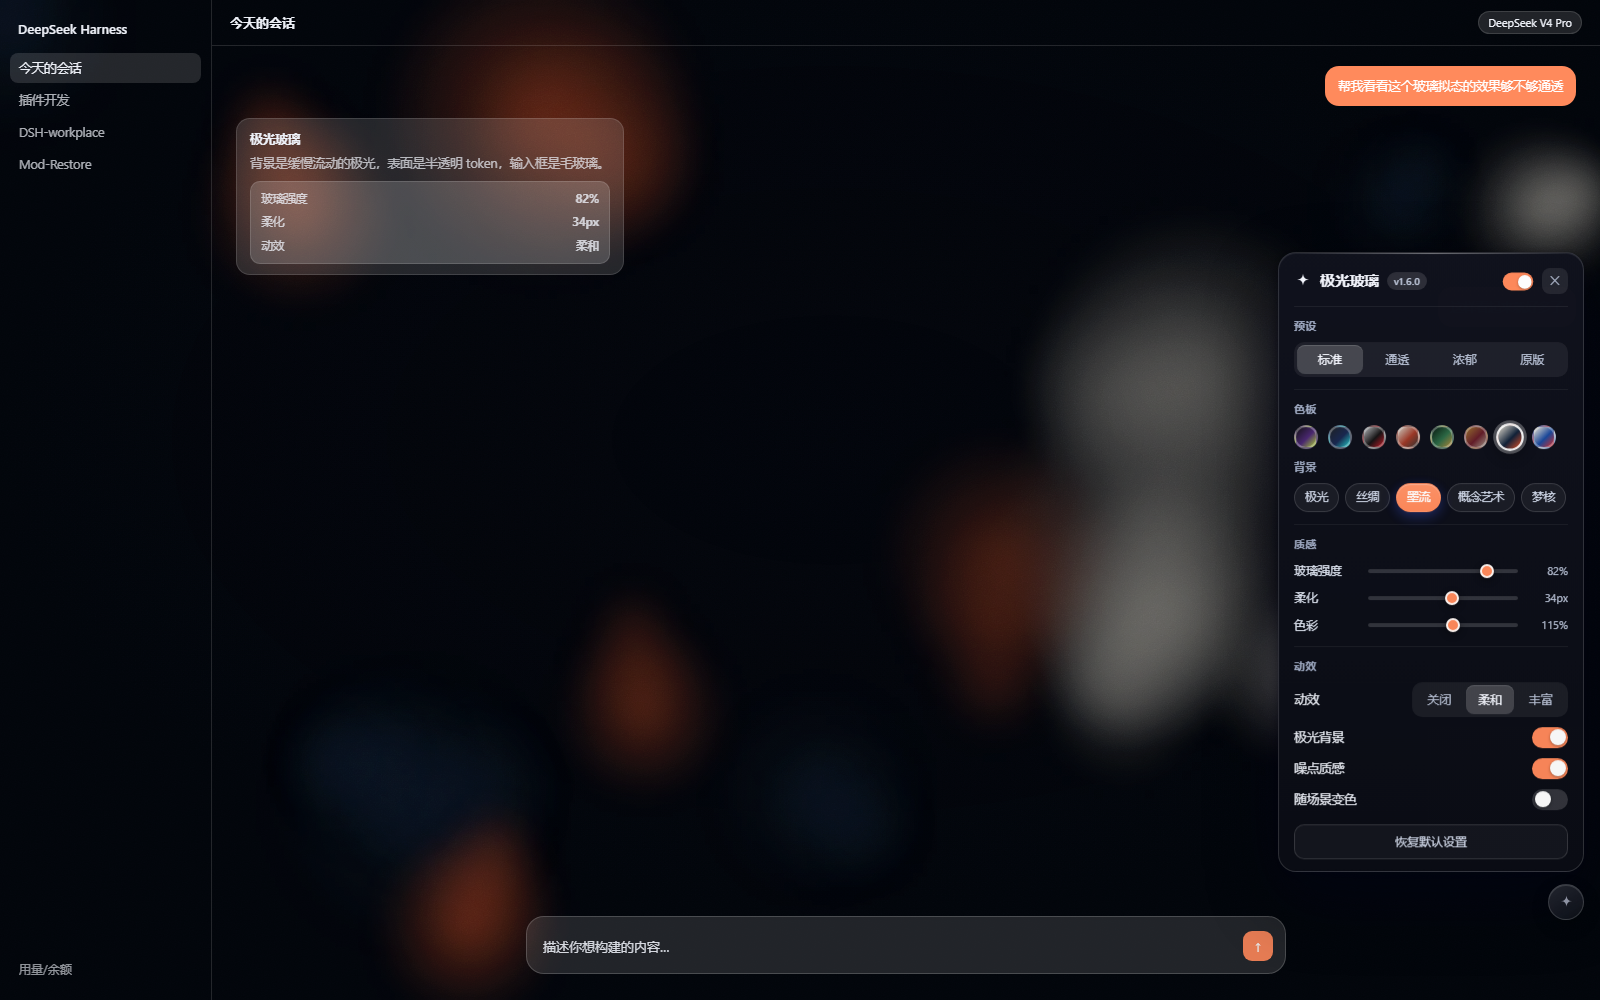
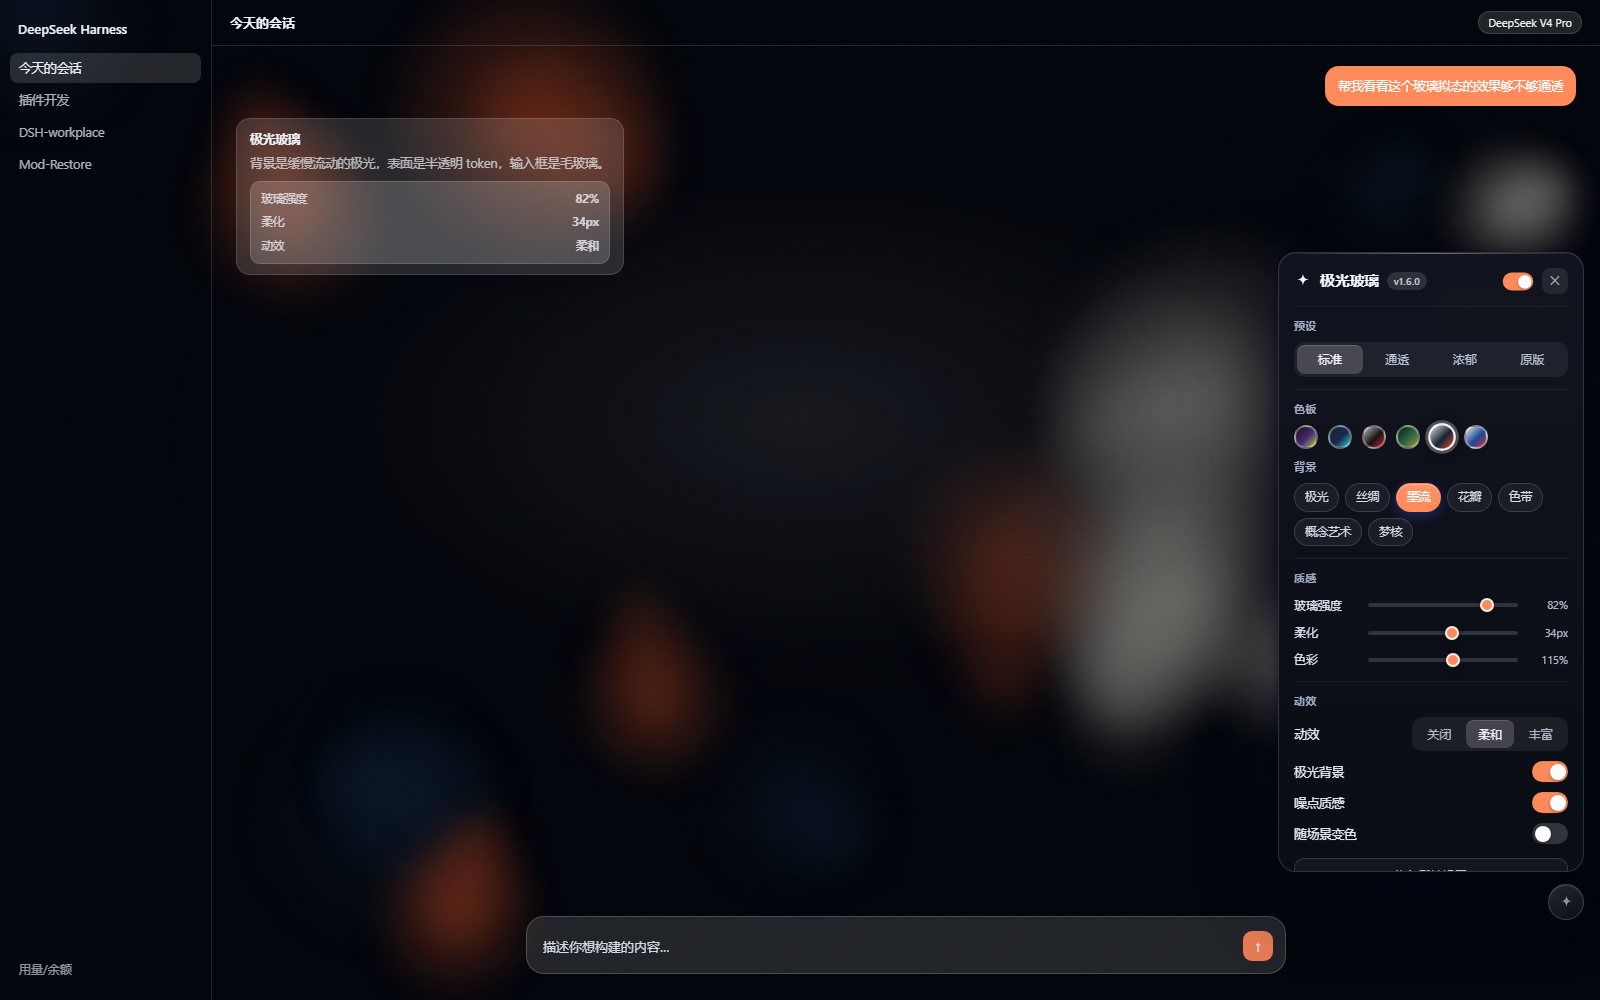
feat: v1.17.0 - per-backdrop pointer interactions: aurora glow, silk sheen, ink gather, concept rim light, dream motes

diff --git a/client.js b/client.js
@@ -361,6 +361,7 @@ body{
 #${BG_ID} .ag-scrim{
   position:absolute; inset:0; display:block; pointer-events:none;
   background:
+    radial-gradient(40% 34% at var(--ag-px,50%) var(--ag-py,42%), rgb(255 255 255 / calc(.05 + .09 * var(--ag-g))), transparent 72%),
     radial-gradient(64% 58% at 52% 44%, rgb(248 250 255 / calc(.2 + .12 * var(--ag-g))), rgb(248 250 255 / 0) 80%),
     rgb(248 250 255 / calc(.05 + .05 * var(--ag-g)));
   transition:opacity .6s ease;
@@ -368,6 +369,7 @@ body{
 body:not([data-ds-dark-theme]) #${BG_ID} i{ opacity:calc(.9 + .1 * var(--ag-g)) }
 body[data-ds-dark-theme] #${BG_ID} .ag-scrim{
   background:
+    radial-gradient(40% 34% at var(--ag-px,50%) var(--ag-py,42%), rgb(255 255 255 / calc(.03 + .06 * var(--ag-g))), transparent 72%),
     radial-gradient(64% 58% at 52% 44%, rgb(4 6 12 / calc(.34 + .12 * var(--ag-g))), rgb(4 6 12 / 0) 82%),
     rgb(4 6 12 / calc(.2 + .08 * var(--ag-g)));
 }
@@ -1142,6 +1144,14 @@ button:active,[role="button"]:active,[role="menuitem"]:active,
           bg.style.transform =
             'translate3d(' + (-pointerX * 16).toFixed(2) + 'px,' + (-pointerY * 16).toFixed(2) + 'px,0)';
         }
+        // the scrim carries a soft highlight that follows the cursor
+        try {
+          const html = document.documentElement;
+          html.style.setProperty('--ag-px', ((pointerX + 0.5) * 100).toFixed(1) + '%');
+          html.style.setProperty('--ag-py', ((pointerY + 0.5) * 100).toFixed(1) + '%');
+        } catch {
+          /* ignore */
+        }
       });
     }
 
@@ -1383,7 +1393,14 @@ button:active,[role="button"]:active,[role="menuitem"]:active,
 
         let cx = x * W;
         let cy = y * H;
-        const rad = p.r * (0.7 + 0.3 * Math.sin(t * 0.13 + p.ph)) * H * 0.72;
+        // ink gathers where the cursor is: nearby plumes swell and darken,
+        // so the pointer feels like it is stirring the water
+        let gather = 0;
+        if (px > -999) {
+          const gd = Math.sqrt((cx - px) * (cx - px) + (cy - py) * (cy - py));
+          gather = Math.max(0, 1 - gd / 95);
+        }
+        const rad = p.r * (0.7 + 0.3 * Math.sin(t * 0.13 + p.ph)) * H * 0.72 * (1 + gather * 0.5);
         const c = cols[p.tone];
 
         // pointer pushes the cloud aside
@@ -1410,7 +1427,7 @@ button:active,[role="button"]:active,[role="menuitem"]:active,
           const by = cy + dirY * spread;
           const br = rad * (1 - k * 0.26);
           if (br <= 0.5) continue;
-          const alpha = (dark ? 0.62 : 0.52) * (1 - k * 0.24);
+          const alpha = (dark ? 0.62 : 0.52) * (1 - k * 0.24) * (1 + gather * 0.55);
           const g = ctx.createRadialGradient(bx, by, 0, bx, by, br);
           g.addColorStop(0, 'rgba(' + c[0] + ',' + c[1] + ',' + c[2] + ',' + alpha + ')');
           g.addColorStop(0.5, 'rgba(' + c[0] + ',' + c[1] + ',' + c[2] + ',' + alpha * 0.42 + ')');
@@ -1573,6 +1590,16 @@ button:active,[role="button"]:active,[role="menuitem"]:active,
         ctx.lineWidth = 1.4;
         ctx.stroke();
       }
+
+      // a travelling sheen: the satin only lights up where the cursor is,
+      // which is what sells "cloth catching a light" instead of a flat gradient
+      const sx = silkPointer.active ? silkPointer.x : W * 0.5;
+      const sheen = ctx.createLinearGradient(sx - W * 0.16, 0, sx + W * 0.16, 0);
+      sheen.addColorStop(0, 'rgba(255,255,255,0)');
+      sheen.addColorStop(0.5, 'rgba(255,255,255,' + (dark ? 0.1 : 0.24) + ')');
+      sheen.addColorStop(1, 'rgba(255,255,255,0)');
+      ctx.fillStyle = sheen;
+      ctx.fillRect(sx - W * 0.16, 0, W * 0.32, H);
     }
 
     /* ---- concept: matte painting with drifting fog -------------------- */
@@ -1598,6 +1625,23 @@ button:active,[role="button"]:active,[role="menuitem"]:active,
       ctx.fillStyle = glow;
       ctx.fillRect(0, 0, W, H);
 
+      // a shaft of light from the source, so the pointer reads as a real lamp
+      ctx.filter = 'blur(16px)';
+      ctx.save();
+      ctx.translate(lx, ly);
+      ctx.rotate(Math.PI / 2 + Math.sin(t * 0.3) * 0.05);
+      const shaft = ctx.createLinearGradient(0, 0, 0, H * 1.5);
+      shaft.addColorStop(0, 'rgba(255,246,230,' + (dark ? 0.2 : 0.34) + ')');
+      shaft.addColorStop(1, 'rgba(255,246,230,0)');
+      ctx.beginPath();
+      ctx.moveTo(-6, 0);
+      ctx.lineTo(W * 0.34, H * 1.5);
+      ctx.lineTo(-W * 0.34, H * 1.5);
+      ctx.closePath();
+      ctx.fillStyle = shaft;
+      ctx.fill();
+      ctx.restore();
+
       // ridge silhouettes, three depths
       ctx.filter = 'blur(1.2px)';
       for (let layer = 0; layer < 3; layer += 1) {
@@ -1616,6 +1660,11 @@ button:active,[role="button"]:active,[role="menuitem"]:active,
           ? 'rgba(' + Math.round(8 + layer * 6) + ',' + Math.round(12 + layer * 8) + ',' + Math.round(20 + layer * 10) + ',0.9)'
           : 'rgba(' + Math.round(150 - layer * 22) + ',' + Math.round(165 - layer * 22) + ',' + Math.round(185 - layer * 20) + ',0.85)';
         ctx.fill();
+        // rim light: the crest catches the lamp, and it follows the pointer
+        const rim = 0.1 + Math.max(0, 1 - Math.abs(lx - W * 0.5) / (W * 0.9)) * 0.45;
+        ctx.strokeStyle = 'rgba(255,246,230,' + (rim * (1 - layer * 0.22)).toFixed(3) + ')';
+        ctx.lineWidth = 1.3;
+        ctx.stroke();
       }
 
       // fog band drifting across
@@ -1667,12 +1716,15 @@ button:active,[role="button"]:active,[role="menuitem"]:active,
         cy += (py - cy) * 0.06;
         const r = o.r * W;
         const c = cols[o.tone];
-        const g = ctx.createRadialGradient(cx, cy, 0, cx, cy, r);
-        g.addColorStop(0, 'rgba(' + c[0] + ',' + c[1] + ',' + c[2] + ',' + (dark ? 0.6 : 0.5) + ')');
+        // orbs brighten as they get close to the cursor, like motes in a beam
+        const dd = Math.sqrt((cx - px) * (cx - px) + (cy - py) * (cy - py));
+        const near = Math.max(0, 1 - dd / (W * 0.42));
+        const g = ctx.createRadialGradient(cx, cy, 0, cx, cy, r * (1 + near * 0.35));
+        g.addColorStop(0, 'rgba(' + c[0] + ',' + c[1] + ',' + c[2] + ',' + ((dark ? 0.6 : 0.5) + near * 0.3) + ')');
         g.addColorStop(1, 'rgba(' + c[0] + ',' + c[1] + ',' + c[2] + ',0)');
         ctx.fillStyle = g;
         ctx.beginPath();
-        ctx.arc(cx, cy, r, 0, Math.PI * 2);
+        ctx.arc(cx, cy, r * (1 + near * 0.35), 0, Math.PI * 2);
         ctx.fill();
       }
 

diff --git a/README.md b/README.md
@@ -3,7 +3,7 @@
 > **`dsh-aurora-glass`** — 为 DeepSeek Harness（DSH）打造的全局玻璃拟态 + 极光渐变主题插件。
 > A global glassmorphism + aurora theme plugin for DeepSeek Harness.
 
-![Version](https://img.shields.io/badge/version-1.16.0-8fb0ff) ![License](https://img.shields.io/badge/license-MIT-059669) ![Platform](https://img.shields.io/badge/platform-DeepSeek%20Harness-4763ff) ![Dependencies](https://img.shields.io/badge/dependencies-0-0b7bf1)
+![Version](https://img.shields.io/badge/version-1.17.0-8fb0ff) ![License](https://img.shields.io/badge/license-MIT-059669) ![Platform](https://img.shields.io/badge/platform-DeepSeek%20Harness-4763ff) ![Dependencies](https://img.shields.io/badge/dependencies-0-0b7bf1)
 
 <p align="center">
   <img src="docs/preview-dark.png" alt="极光 · 墨紫" width="780">
@@ -73,13 +73,13 @@
 
 | 背景 | 语言 | 交互 |
 | --- | --- | --- |
-| **极光** | 四团径向渐变沿闭环漂移（纯 CSS） | 指针视差 + 打字脉动 + 切会话涌动 |
-| **丝绸** | 七条横向缎带，磨边 + 一道白色高光 | 指针把整张布推开，点击荡开涟漪 |
-| **墨流** | 三瓣一串的墨团缓慢下沉 | 指针挤开墨团，点击荡开涟漪，打字加速 |
-| **花瓣** | 三层半透明褶皱花瓣缓慢绽放 | **鼠标就是花心**，花瓣朝你倾；点一下再开一层 |
+| **极光** | 四团径向渐变沿闭环漂移（纯 CSS） | 指针视差 + **跟随光标的一团柔光** + 打字脉动 + 切会话涌动 |
+| **丝绸** | 七条横向缎带，磨边 + 一道白色高光 | 指针推开布面，同时带一条**跟着你走的缎面反光**；点击荡开涟漪 |
+| **墨流** | 三瓣一串的墨团缓慢下沉 | 指针附近的墨会**变浓变大**（像在搅水），点击荡开涟漪，打字加速 |
+| **花瓣** | 三层半透明褶皱花瓣缓慢绽放 | **鼠标就是花心**，花瓣按层朝你倾 |
 | **色带** | 像素量化的横向色带 + 亮脊 | 鼠标像一枚**透镜**，把色带顶起来 |
-| **概念艺术** | 三层山脊 + 漂移的雾 + 一束天光 | **鼠标就是光源**，光束和雾跟着走 |
-| **梦核** | 粉紫渐变、发光球体、悬浮的空画框 | 光球会慢慢向你靠拢，画框按景深视差 |
+| **概念艺术** | 三层山脊 + 漂移的雾 + 一束天光 | **鼠标就是光源**：光束、雾、山脊的**轮廓光**全部跟着走 |
+| **梦核** | 粉紫渐变、发光球体、悬浮的空画框 | 光球会向你靠拢，**靠近时变亮**；画框按景深视差 |
 
 ### 色板：六组三色卡
 

diff --git a/CHANGELOG.md b/CHANGELOG.md
@@ -3,6 +3,20 @@
 本文件记录 dsh-aurora-glass 的重要变更，采用简易维护格式（Keep a Changelog 风格）。
 All notable changes to dsh-aurora-glass, in a simple maintenance format (Keep a Changelog style).
 
+## [1.17.0] - 2026-10-25
+
+### Changed
+
+把剩下五种背景的观感和交互一起提到新补那两种的水准，每种都有**自己的**鼠标反馈：
+
+- **极光**：scrim 上叠了一团柔光，位置由 `--ag-px/--ag-py` 驱动 —— 鼠标到哪，哪块就亮一点。
+  变量在既有的视差 rAF 里写，一帧一次，不额外起动画。
+- **丝绸**：加了一条**缎面反光带**，横向跟着光标走。布面被推开 + 反光扫过，才像"布接住了光"。
+- **墨流**：指针附近的墨团会**变浓变大**（半径 ×1.5、透明度 ×1.55），像在搅水，而不是单纯被推开。
+- **概念艺术**：补了**光柱**（从光源向下的一束渐变），并给三层山脊加了**轮廓光** ——
+  靠近光源的一侧亮起来，鼠标移动时轮廓光会跟着扫过山脊。
+- **梦核**：光球靠近光标时**变亮变大**，像光柱里的浮尘。
+
 ## [1.16.0] - 2026-10-25
 
 ### Removed
